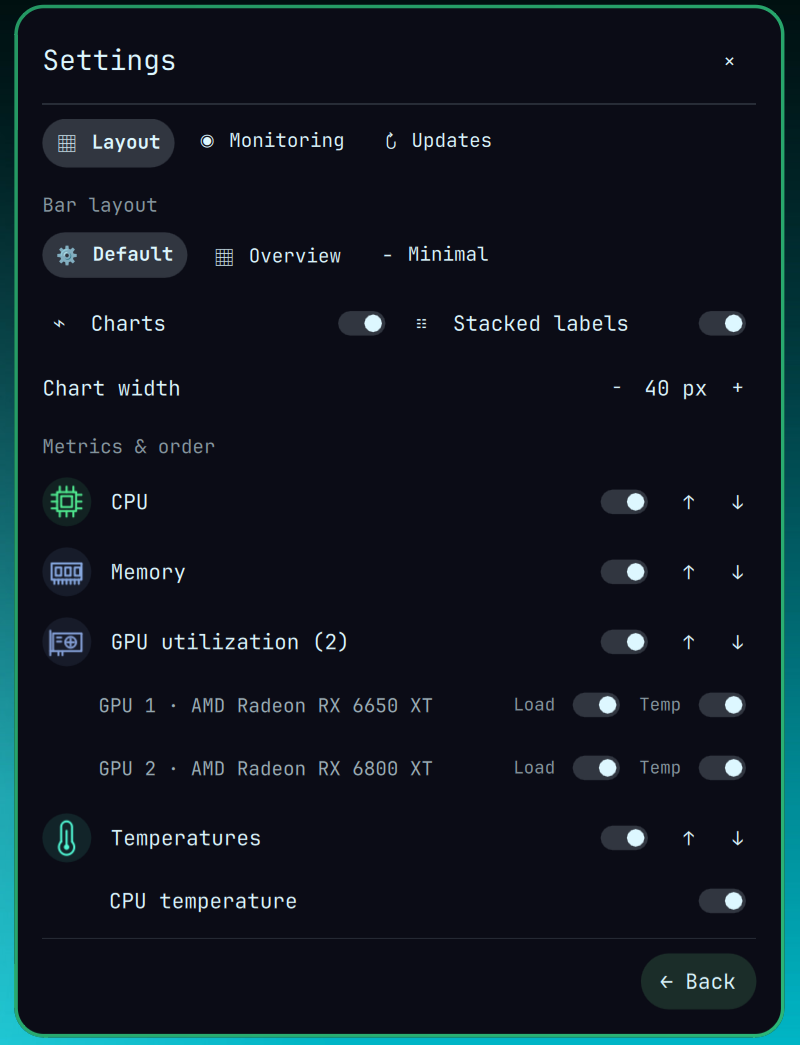
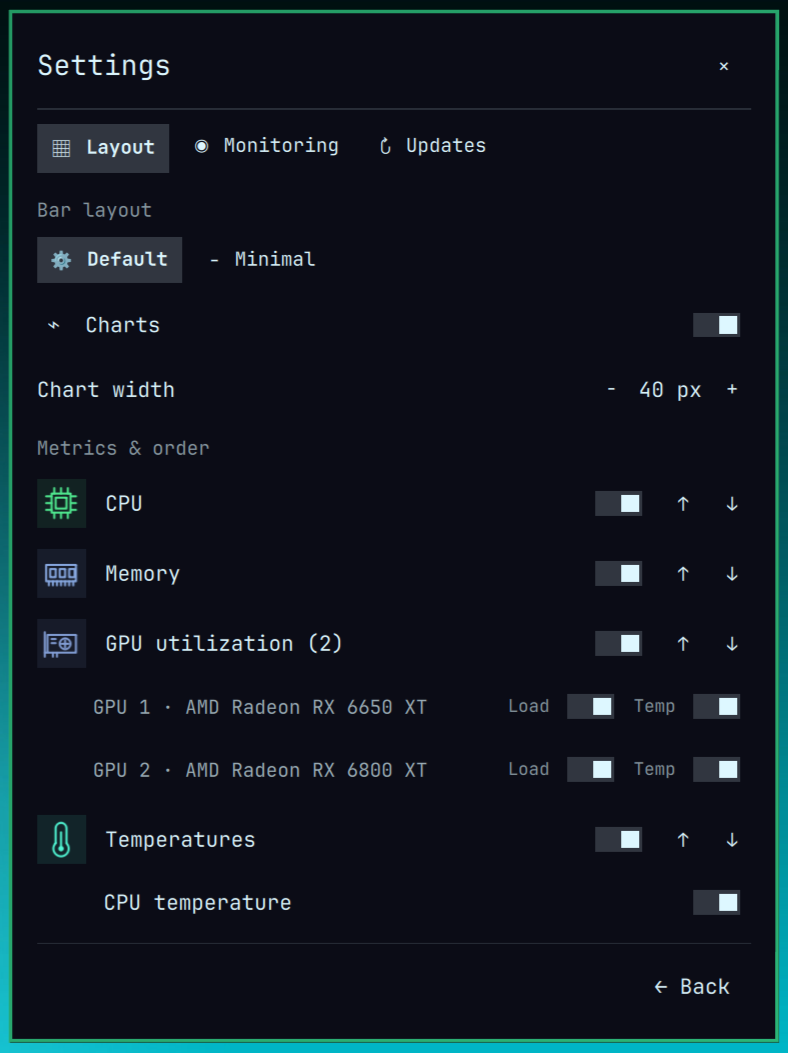
Release Omarchy Statusline v0.4.0
Refine status bar metrics and simplify Default/Minimal layouts.

Improve transparent-bar contrast and Settings updates guidance.

Refresh three dark-theme README screenshot sets and marketplace preview.

diff --git a/Widget.qml b/Widget.qml
@@ -32,16 +32,25 @@ Panel {
         return 0
     }
     function metricLabel(metric) {
-        return preferences.layout === "minimal" ? (metric.shortName || metric.name) : metric.name
+        return metric.name
     }
+    function barInkFor(ink, foreground, transparent) {
+        if (!transparent || 0.2126 * foreground.r + 0.7152 * foreground.g + 0.0722 * foreground.b > 0.5) return ink
+        return Qt.rgba(ink.r * 0.3 + foreground.r * 0.7,
+            ink.g * 0.3 + foreground.g * 0.7,
+            ink.b * 0.3 + foreground.b * 0.7, 1)
+    }
+    function barInk(ink) { return barInkFor(ink, barForeground, bar && bar.transparent) }
     function measuredWidth(count, graphs) {
         let result = Style.space(12) + Math.max(0, count - 1) * Style.space(12)
         for (let i = 0; i < count; i++) {
             const metric = metrics[metricIds[i]] || {name: "GPU", value: "—"}
             const name = metricLabel(metric)
-            const text = (preferences.stacked ? "" : name + " ") + metric.value
-            const labelWidth = Math.ceil(Math.max(bodyMetrics.advanceWidth(text), preferences.stacked ? captionMetrics.advanceWidth(name) : 0))
-            result += labelWidth + (graphs ? Style.space(5 + preferences.chartWidth) : 0)
+            const labelWidth = Math.ceil(captionMetrics.advanceWidth(name))
+            const readingWidth = Math.ceil(bodyMetrics.advanceWidth(metric.value))
+            result += labelWidth + Style.space(5) + (graphs
+                ? Math.max(readingWidth + Style.space(12), Style.space(preferences.chartWidth))
+                : readingWidth + Style.space(4))
         }
         return result
     }
@@ -54,17 +63,17 @@ Panel {
     readonly property var s: Metrics.sample
     readonly property var metrics: {
         const result = {
-            cpu: {name: "CPU", shortName: "C", value: Metrics.percent(s.cpu), ink: cpuColor, chart: "cores"},
-            disk: {name: "DISK", shortName: "D", value: Metrics.percent((s.disk || {}).percent), ink: Metrics.palette("cyan", "color6", cpuColor), chart: "meter", amount: (s.disk || {}).percent},
-            memory: {name: "MEM", shortName: "M", value: Metrics.percent(s.memory.percent), ink: memoryColor, chart: "meter", amount: s.memory.percent},
-            gpu: {name: "GPU", shortName: "G", value: "—", ink: gpuColor, chart: "sparkline", history: []},
-            cpuHeat: {name: "CPU", shortName: "CT", value: Metrics.temp(s.cpuTemperature), ink: heatColor, chart: "sparkline", history: Metrics.history.cpuTemp}
+            cpu: {name: "CPU", value: Metrics.percent(s.cpu), ink: cpuColor, chart: "cores"},
+            disk: {name: "DISK", value: Metrics.percent((s.disk || {}).percent), ink: Metrics.palette("cyan", "color6", cpuColor), chart: "meter", amount: (s.disk || {}).percent},
+            memory: {name: "MEM", value: Metrics.percent(s.memory.percent), ink: memoryColor, chart: "meter", amount: s.memory.percent},
+            gpu: {name: "GPU", value: "—", ink: gpuColor, chart: "sparkline", history: []},
+            cpuHeat: {name: "CPU", value: Metrics.temp(s.cpuTemperature), ink: heatColor, chart: "sparkline", history: Metrics.history.cpuTemp}
         }
         gpuAdapters.forEach((gpu, index) => {
             const label = gpuAdapters.length > 1 ? "GPU" + (index + 1) : "GPU"
             const history = Metrics.history.gpus[gpu.id] || {}
-            result["gpu:" + gpu.id] = {name: label, shortName: gpuAdapters.length > 1 ? "G" + (index + 1) : "G", value: Metrics.percent(gpu.percent), ink: gpuColor, chart: "sparkline", history: history.load || []}
-            result["gpuHeat:" + gpu.id] = {name: label, shortName: gpuAdapters.length > 1 ? "T" + (index + 1) : "GT", value: Metrics.temp(gpu.temperature), ink: heatColor, chart: "sparkline", history: history.temperature || []}
+            result["gpu:" + gpu.id] = {name: label, value: Metrics.percent(gpu.percent), ink: gpuColor, chart: "sparkline", history: history.load || []}
+            result["gpuHeat:" + gpu.id] = {name: label, value: Metrics.temp(gpu.temperature), ink: heatColor, chart: "sparkline", history: history.temperature || []}
         })
         return result
     }
@@ -94,29 +103,50 @@ Panel {
         Row {
             id: line
             anchors.centerIn: parent
-            anchors.verticalCenterOffset: -Style.space(3)
             spacing: Style.space(12)
             visible: !root.vertical && Metrics.sessionEnabled && root.fittedCount > 0
             opacity: Metrics.stale ? 0.4 : 1
             Repeater {
                 model: root.metricIds.slice(0, root.fittedCount)
                 Row {
+                    id: metricRow
                     required property string modelData
                     readonly property var metric: root.metrics[modelData] || ({name: "GPU", value: "—", ink: root.gpuColor, chart: "", history: []})
+                    readonly property color displayInk: root.barInk(metric.ink)
                     spacing: Style.space(5)
-                    Column {
+                    PulseText {
                         anchors.verticalCenter: parent.verticalCenter
-                        PulseText { text: root.metricLabel(metric); color: root.barForeground; opacity: 0.65; font.pixelSize: Style.font.caption; visible: root.preferences.stacked }
-                        PulseText { text: (!root.preferences.stacked ? root.metricLabel(metric) + " " : "") + metric.value; color: metric.ink }
+                        objectName: "pulseMetricLabel-" + modelData
+                        text: root.metricLabel(metric)
+                        color: root.barForeground
+                        opacity: 0.65
+                        font.pixelSize: Style.font.caption
                     }
                     Item {
-                        width: Style.space(root.preferences.chartWidth)
-                        height: Style.space(root.preferences.stacked ? 22 : 14)
                         anchors.verticalCenter: parent.verticalCenter
-                        visible: root.fittedGraphs
-                        CoreBars { anchors.fill: parent; visible: metric.chart === "cores"; values: root.s.cores; ink: root.cpuColor; spacing: 1 }
-                        Meter { anchors.verticalCenter: parent.verticalCenter; width: parent.width; height: Style.space(6); visible: metric.chart === "meter"; value: metric.amount; ink: metric.ink }
-                        Sparkline { anchors.fill: parent; visible: metric.chart === "sparkline"; values: metric.history || []; ink: metric.ink }
+                        objectName: "pulseMetricChart-" + modelData
+                        width: root.fittedGraphs ? Math.max(Style.space(root.preferences.chartWidth), value.implicitWidth + Style.space(12)) : value.implicitWidth + Style.space(4)
+                        height: Style.space(23)
+                        Item {
+                            objectName: "pulseMetricGraph-" + modelData
+                            anchors.left: parent.left
+                            anchors.right: parent.right
+                            anchors.bottom: parent.bottom
+                            height: Style.space(9)
+                            visible: root.fittedGraphs
+                            opacity: root.bar && root.bar.transparent ? 0.8 : 0.55
+                            CoreBars { anchors.fill: parent; visible: metric.chart === "cores"; values: root.s.cores; ink: metricRow.displayInk; spacing: 1 }
+                            Meter { anchors.verticalCenter: parent.verticalCenter; width: parent.width; height: Style.space(5); visible: metric.chart === "meter"; value: metric.amount; ink: metricRow.displayInk }
+                            Sparkline { anchors.fill: parent; visible: metric.chart === "sparkline"; values: metric.history || []; ink: metricRow.displayInk }
+                        }
+                        PulseText {
+                            id: value
+                            anchors.top: parent.top
+                            anchors.horizontalCenter: parent.horizontalCenter
+                            objectName: "pulseMetricValue-" + modelData
+                            text: metric.value
+                            color: metricRow.displayInk
+                        }
                     }
                 }
             }

diff --git a/tests/qml/shell.qml b/tests/qml/shell.qml
@@ -99,8 +99,15 @@ ShellRoot {
                 app.check(app.visibleTexts(detail).includes("Temp 41°C"), "CPU temperature appears in CPU detail row")
                 app.check(!app.visibleTexts(detail).includes("Temperatures"), "detail has no separate temperature section")
                 app.check(LayoutModel.normalize({metrics: ['invalid', 'cpu', 'cpu']}).metrics.join() === 'cpu', "layout validates metric IDs")
-                app.check(LayoutModel.normalize({}).layout === 'default' && LayoutModel.normalize({layout: 'custom'}).layout === 'default' && LayoutModel.normalize({layout: 'compact'}).layout === 'default', "default layout accepts legacy presets")
+                app.check(LayoutModel.normalize({}).layout === 'default' && LayoutModel.normalize({layout: 'overview'}).layout === 'default' && LayoutModel.normalize({layout: 'custom'}).layout === 'default' && LayoutModel.normalize({layout: 'compact'}).layout === 'default', "default layout accepts legacy presets")
                 app.check(!LayoutModel.normalize({layout:'minimal'}).graphs, "minimal hides charts")
+                first.item.settings = {layout: 'minimal'}
+                app.check(first.item.metricLabel(first.item.metrics.cpu) === 'CPU' && first.item.metricLabel(first.item.metrics.memory) === 'MEM' && first.item.metricLabel(first.item.metrics['gpu:card0']) === 'GPU1' && first.item.metricLabel(first.item.metrics['gpuHeat:card1']) === 'GPU2', "minimal keeps full metric labels")
+                first.item.settings = {layout: 'default'}
+                const sampleInk = Qt.rgba(0.5, 0.8, 0.9, 1)
+                const inkOnLight = first.item.barInkFor(sampleInk, Qt.rgba(0.1, 0.1, 0.1, 1), true)
+                const inkOnDark = first.item.barInkFor(sampleInk, Qt.rgba(0.9, 0.9, 0.9, 1), true)
+                app.check(inkOnLight.r < sampleInk.r && inkOnLight.g < sampleInk.g && Math.abs(inkOnDark.r - sampleInk.r) < 0.01, "transparent bar preserves theme colors on dark backgrounds and darkens them on light backgrounds")
                 app.check(first.item.metricIds.join() === 'cpu,memory,gpu:card0,gpu:card1,cpuHeat,gpuHeat:card0,gpuHeat:card1', "bar expands both GPUs and temperatures")
                 app.check(first.item.metrics['gpu:card0'].name === 'GPU1' && first.item.metrics['gpu:card1'].name === 'GPU2', "bar labels both GPUs")
                 app.check(first.item.fittedCount === 7, "wide monitor keeps all GPU readouts: " + first.item.fittedCount + "/" + first.item.availableWidth + "/" + first.item.fullWidth)
@@ -134,8 +141,10 @@ ShellRoot {
                 Pulse.Metrics.sample = app.multiGpuSample
                 page.category = "updates"
                 app.check(page.installedVersion.length > 0, "settings reads installed version without updater process")
+                const updateCommand = app.find(page, "pulseUpdateCommand")
                 const updateGuide = app.find(page, "pulseUpdateInstructions")
-                app.check(updateGuide && updateGuide.visible && updateGuide.text.indexOf("omarchy plugin update lucas.system-pulse") >= 0, "updates page directs users to host plugin manager")
+                app.check(updateCommand && updateCommand.visible && updateCommand.text === "omarchy plugin update lucas.system-pulse", "updates page directs git installations to host plugin manager")
+                app.check(updateGuide && updateGuide.visible && updateGuide.text.indexOf("source checkout") >= 0, "updates page distinguishes local development installs")
                 page.category = "layout"
                 page.change("layout", "minimal")
                 app.check(detail.settings.layout === 'minimal', "settings emits persistable values")
@@ -147,10 +156,25 @@ ShellRoot {
                 app.check(detail.settings.metrics[1] === 'gpu', "metric order saves")
                 app.check(Pulse.Metrics.consumers === 2, "two monitors share collector")
                 app.check(first.item.fittedCount === 7, "widening restores all GPU readouts: " + first.item.fittedCount + "/" + first.item.availableWidth + "/" + first.item.fullWidth)
-                first.item.settings = {layout: "default"}
+                first.item.settings = {layout: "default", stackedLabels: true}
+                app.check(app.visibleTexts(first.item).includes("CPU") && app.visibleTexts(first.item).includes("20%") && app.visibleTexts(first.item).includes("GPU1") && app.visibleTexts(first.item).includes("12%"), "legacy stacked setting keeps separate labels and values")
+                const cpuLabel = app.find(first.item, "pulseMetricLabel-cpu")
+                const cpuValue = app.find(first.item, "pulseMetricValue-cpu")
+                const cpuChart = app.find(first.item, "pulseMetricChart-cpu")
+                const cpuGraph = app.find(first.item, "pulseMetricGraph-cpu")
+                app.check(cpuLabel && cpuValue && cpuChart && cpuGraph && first.item.fittedGraphs
+                    && cpuLabel.mapToItem(first.item, 0, 0).x < cpuValue.mapToItem(first.item, 0, 0).x
+                    && cpuValue.parent === cpuChart
+                    && cpuValue.y >= 0 && cpuValue.y + cpuValue.height <= cpuChart.height
+                    && cpuGraph.y < cpuValue.y + cpuValue.height,
+                    "bar metric has label left and value over chart")
+                app.check(!app.visibleTexts(page).some(text => text.indexOf("Stacked labels") >= 0), "settings no longer offers stacked labels")
+                app.check(app.find(page, "pulseBarLayout-default") && app.find(page, "pulseBarLayout-minimal") && !app.find(page, "pulseBarLayout-overview"), "bar layout offers only default and minimal")
                 app.check(first.item.metricLabel(first.item.metrics.cpu) === "CPU", "default keeps full metric names")
+                first.item.settings = {layout: "overview", stackedLabels: true}
+                app.check(first.item.preferences.layout === "default" && app.visibleTexts(first.item).includes("CPU") && app.visibleTexts(first.item).includes("20%"), "legacy overview loads as default")
                 first.item.settings = {layout: "minimal"}
-                app.check(first.item.metricLabel(first.item.metrics.cpu) === "C" && first.item.metricLabel(first.item.metrics['gpu:card1']) === "G2" && !first.item.fittedGraphs, "minimal has short labels and no charts")
+                app.check(first.item.metricLabel(first.item.metrics.cpu) === "CPU" && first.item.metricLabel(first.item.metrics['gpu:card1']) === "GPU2" && !first.item.fittedGraphs, "minimal has full labels and no charts")
                 first.item.settings = {layout: "default"}
                 app.check(first.item.settings.layout === "default", "automatic fitting preserves preferences")
                 first.active = false

diff --git a/SettingsPage.qml b/SettingsPage.qml
@@ -47,6 +47,28 @@ ColumnLayout {
     }
     component Title: PulseText { font.pixelSize: Style.font.bodySmall; opacity: 0.6; Layout.fillWidth: true; Layout.topMargin: Style.space(6) }
     component Hint: PulseText { Layout.fillWidth: true; wrapMode: Text.Wrap; opacity: 0.7; font.pixelSize: Style.font.bodySmall }
+    component UpdateCard: Rectangle {
+        id: card
+        property string heading: ""
+        property string description: ""
+        property string command: ""
+        property color tone: Color.accent
+        Layout.fillWidth: true
+        implicitHeight: cardBody.implicitHeight + Style.space(20)
+        radius: Style.cornerRadius
+        color: Qt.alpha(tone, 0.08)
+        border.width: 1
+        border.color: Qt.alpha(tone, 0.3)
+        ColumnLayout {
+            id: cardBody
+            anchors.fill: parent
+            anchors.margins: Style.space(10)
+            spacing: Style.space(5)
+            PulseText { text: card.heading; color: card.tone; font.bold: true; Layout.fillWidth: true }
+            PulseText { objectName: card.command ? "pulseUpdateCommand" : ""; visible: !!card.command; text: card.command; color: Color.popups.text; font.pixelSize: Style.font.bodySmall; Layout.fillWidth: true; wrapMode: Text.WrapAnywhere }
+            PulseText { text: card.description; color: Color.popups.text; opacity: 0.75; font.pixelSize: Style.font.bodySmall; Layout.fillWidth: true; wrapMode: Text.Wrap }
+        }
+    }
     component Button: Ui.Button {
         focusable: true
         fontSize: Style.font.bodySmall
@@ -111,6 +133,7 @@ ColumnLayout {
                 required property var modelData
                 text: modelData.label
                 iconText: modelData.icon
+                accent: ({layout: Metrics.palette("blue", "color4", Color.accent), monitoring: Metrics.palette("green", "color2", Color.accent), updates: Metrics.palette("magenta", "color5", Color.accent)})[modelData.id]
                 selected: root.category === modelData.id
                 onClicked: root.category = modelData.id
             }
@@ -125,9 +148,10 @@ ColumnLayout {
         Layout.fillWidth: true
         spacing: Style.space(7)
         Repeater {
-            model: [{id: "default", label: "Default", icon: "⚙"}, {id: "overview", label: "Overview", icon: "▦"}, {id: "minimal", label: "Minimal", icon: "−"}]
+            model: [{id: "default", label: "Default", icon: "⚙"}, {id: "minimal", label: "Minimal", icon: "−"}]
             Button {
                 required property var modelData
+                objectName: "pulseBarLayout-" + modelData.id
                 text: modelData.label
                 iconText: modelData.icon
                 selected: root.preferences.layout === modelData.id
@@ -139,7 +163,6 @@ ColumnLayout {
         visible: root.preferences.layout === "default"
         Layout.fillWidth: true
         Toggle { Layout.fillWidth: true; label: "⌁  Charts"; checked: root.preferences.graphs; onClicked: root.change("showGraphs", !checked) }
-        Toggle { Layout.fillWidth: true; label: "☷  Stacked labels"; checked: root.preferences.stacked; onClicked: root.change("stackedLabels", !checked) }
     }
     RowLayout {
         visible: root.preferences.layout === "default" && root.preferences.graphs
@@ -267,21 +290,26 @@ ColumnLayout {
     ColumnLayout {
         visible: root.category === "updates"
         Layout.fillWidth: true
-        spacing: Style.space(8)
-    Title { text: root.installedVersion ? "Version " + root.installedVersion : "Omarchy Statusline" }
-    Hint { text: "Manage updates through Omarchy’s plugin manager." }
-    Hint {
-        objectName: "pulseUpdateInstructions"
-        text: "For a normal installation, run in a terminal:\nomarchy plugin update lucas.system-pulse"
+        spacing: Style.space(10)
+    RowLayout {
+        Layout.fillWidth: true
+        PulseText { text: "Installed"; font.pixelSize: Style.font.bodySmall; opacity: 0.7 }
+        PulseText { text: root.installedVersion ? "v" + root.installedVersion : "—"; color: Metrics.palette("magenta", "color5", Color.accent); font.bold: true; Layout.fillWidth: true }
     }
-    Hint { text: "Development installations: update your source checkout manually. Reload Omarchy Shell after updating; this restarts the whole shell." }
+    UpdateCard {
+        heading: "Update from GitHub"
+        command: "omarchy plugin update lucas.system-pulse"
+        description: "Run in a terminal. Omarchy uses the GitHub remote saved at installation."
+        tone: Metrics.palette("blue", "color4", Color.accent)
+    }
+    Hint { objectName: "pulseUpdateInstructions"; text: "Local development install? Update its source checkout instead." }
     Flow {
         Layout.fillWidth: true; spacing: Style.space(7)
         Button {
-            iconText: "↗"; text: "Plugin marketplace"
-            onClicked: Qt.openUrlExternally("https://plugins.omarchy.org/")
+            iconText: "↗"; text: "Omarchy plugin guide"
+            accent: Metrics.palette("blue", "color4", Color.accent)
+            onClicked: Qt.openUrlExternally("https://omarchy.org/manual/shell-plugins/")
         }
-        Button { iconText: "↻"; text: "Reload shell"; tooltipText: "Restart Omarchy Shell to apply updates"; onClicked: Quickshell.execDetached(["omarchy", "restart", "shell"]) }
     }
     }
 }

diff --git a/Layout.js b/Layout.js
@@ -8,15 +8,12 @@ function gpuEnabled(options, key, id) {
     return !options[key] || options[key][id] !== false
 }
 function normalize(options) {
-    const layout = options.layout === "custom" || options.layout === "compact" ? "default"
-        : ["overview", "minimal", "default"].indexOf(options.layout) >= 0
-        ? options.layout : "default"
+    const layout = options.layout === "minimal" ? "minimal" : "default"
     const order = Array.isArray(options.metrics) ? options.metrics : ["cpu", "memory", "gpu", "heat"]
     const metrics = order.filter((id, i) => metricIds.indexOf(id) >= 0 && order.indexOf(id) === i)
     return {layout: layout, metrics: metrics.length ? metrics : ["cpu"],
-        graphs: layout === "default" ? options.showGraphs !== false : layout !== "minimal",
-        stacked: layout === "overview" || (layout === "default" && options.stackedLabels === true),
-        chartWidth: layout === "default" ? Math.max(20, Math.min(80, Number(options.chartWidth) || 40)) : layout === "overview" ? 48 : 28}
+        graphs: layout === "default" && options.showGraphs !== false,
+        chartWidth: Math.max(20, Math.min(80, Number(options.chartWidth) || 40))}
 }
 
 // The shell currently positions its three sections independently. Measure the

diff --git a/README.md b/README.md
@@ -8,11 +8,11 @@ The default widget shows CPU load with per-core bars, memory usage with a meter,
 
 ## Screenshots
 
-These screenshots are examples of the same widget layout under two Omarchy themes.
+These screenshots show the same widget layout under three dark Omarchy themes.
 
 ### Example: Hackerman
 
-![Omarchy status bar showing CPU, memory, GPU1 and GPU2 utilization, separate CPU and GPU temperatures, and disk usage](docs/images/themes/hackerman/status-bar.png)
+![Omarchy status bar showing CPU, memory, GPU1 and GPU2 utilization, and separate CPU and GPU temperatures](docs/images/themes/hackerman/status-bar.png)
 
 | System monitor | Settings |
 | --- | --- |
@@ -26,7 +26,15 @@ These screenshots are examples of the same widget layout under two Omarchy theme
 | --- | --- |
 | ![Ristretto system panel showing separate readings for two GPUs](docs/images/themes/ristretto/system-panel.png) | ![Ristretto settings listing both GPUs with separate switches](docs/images/themes/ristretto/settings.png) |
 
-Omarchy Statusline follows whichever Omarchy theme is active; Hackerman and Ristretto are examples, not the only supported themes. No plugin theme setting is needed.
+### Example: Tokyo Night
+
+![Omarchy status bar in the Tokyo Night theme showing both GPUs and their temperatures](docs/images/themes/tokyo-night/status-bar.png)
+
+| System monitor | Settings |
+| --- | --- |
+| ![Tokyo Night system panel showing separate readings for two GPUs](docs/images/themes/tokyo-night/system-panel.png) | ![Tokyo Night settings listing both GPUs with separate switches](docs/images/themes/tokyo-night/settings.png) |
+
+Omarchy Statusline follows whichever Omarchy theme is active; these three themes are examples, not the only supported themes. No plugin theme setting is needed.
 
 ## Quick install
 
@@ -82,10 +90,10 @@ Click the widget to open the detail panel, then choose **Settings**. Right-click
 
 The settings page has three tabs, with detail panel options inside Layout:
 
-- **Layout**: Default (the initial setup, with adjustable charts and labels), Overview (stacked labels and charts), or Minimal (short labels and no charts). Select and reorder CPU/memory/GPU/temperature/disk groups, then control each detected GPU's utilization and temperature readouts separately. In Default, you can show or hide charts, choose stacked labels, and adjust chart width from 20–80 logical pixels. At least one metric group stays enabled. Existing `custom` and `compact` bar settings load as Default.
+- **Layout**: Default (the initial setup, with adjustable charts) or Minimal (full metric labels and no charts). Each bar metric has its label on the left and its value overlaid on the chart on the right. Select and reorder CPU/memory/GPU/temperature/disk groups, then control each detected GPU's utilization and temperature readouts separately. In Default, you can show or hide charts and adjust chart width from 20–80 logical pixels. At least one metric group stays enabled. Existing `overview`, `custom`, and `compact` bar settings load as Default; saved `stackedLabels` values are ignored.
 - **Detail panel (Layout)**: System and Settings share a 440 × 558 logical-pixel content frame, constrained by available screen space. Overview shows history below each metric; Compact uses smaller rows without those history strips. Temperature history follows the history visibility setting.
 - **Monitoring**: choose 1, 2, or 5 second sampling; configure startup; pause/resume; exit this session; or disable the plugin entirely.
-- **Updates**: inspect the installed version, find Omarchy’s plugin update command, open the marketplace, and reload Omarchy Shell afterward.
+- **Updates**: see the installed version, the Git-managed update command, and the official plugin guide. Local development installs update through their source checkout.
 
 Bar width adapts independently to the space available on each monitor, reserving room for the clock and neighboring widgets. On narrow screens it hides charts first, then shows only the metrics that fit in your chosen order; click for all details. If necessary it collapses to a small launcher. The full layout returns when space is available, without changing saved settings. The plugin fits the host bar and never creates another bar. Left/right vertical bars use the CPU/memory readout and the same settings and detail panel.
 
@@ -97,7 +105,7 @@ omarchy-shell shell summon lucas.system-pulse '{}'
 omarchy-shell shell hide lucas.system-pulse
 ```
 
-For more readable stacked labels, set `size-horizontal = 36` in the `[bar]` section of `~/.config/omarchy/shell.toml` (merge with existing settings). This machine preference survives theme switches and affects the whole bar. The installer does not change bar height automatically.
+Bar height is controlled by `size-horizontal` in the `[bar]` section of `~/.config/omarchy/shell.toml`. This machine preference affects the whole bar; the installer does not change it.
 
 ## Startup, pause and exit
 
@@ -115,9 +123,9 @@ Use Omarchy’s plugin manager for a normal Git-managed installation:
 omarchy plugin update lucas.system-pulse
 ```
 
-Follow the host command’s prompts. **Settings → Updates** displays this command and links to the plugin marketplace. The plugin itself does not check remote repositories, download updates or apply Git changes. Update behavior and confirmation are managed by the installed Omarchy version.
+Run it in a terminal and follow Omarchy’s prompts. `plugin add` takes the GitHub repository URL for a first installation; `plugin update` takes the installed plugin ID and uses its saved Git remote. **Settings → Updates** shows the update command and links to the [Omarchy plugin guide](https://omarchy.org/manual/shell-plugins/). The plugin itself does not download or apply updates.
 
-After updating, use **Reload shell** or `omarchy restart shell` to clear cached QML components; this restarts the whole shell. Development symlinks and worktrees should be updated manually through their source checkout.
+Omarchy rescans plugins after a Git-managed update, and plugin file changes normally reload automatically. If the updated interface does not appear, run `omarchy restart shell` to clear cached QML components. Development symlinks and worktrees should be updated through their source checkout.
 
 ## Themes
 

diff --git a/RELEASE_NOTES.md b/RELEASE_NOTES.md
@@ -1,16 +1,16 @@
-# Omarchy Statusline v0.3.0
+# Omarchy Statusline v0.4.0
 
-This release adds per-adapter GPU monitoring throughout the bar, settings, and detail panel.
+This release refines the status bar and settings while preserving per-adapter GPU monitoring and the existing `lucas.system-pulse` plugin ID.
 
 ## What's new
 
-- Show each detected GPU's utilization and temperature separately in the status bar, with its own history. Settings identifies adapters by name and lets you toggle each GPU's load and temperature readouts independently; preferences are saved by adapter ID.
-- Show every detected GPU in the detail panel with its own utilization, VRAM, power, fan, temperature, hotspot, and history where the hardware exposes them. CPU temperature now sits with CPU information. The separate temperature section has been removed.
-- Simplify bar presets to Default, Overview, and Minimal. Default is the initial preset; older `custom` and `compact` bar preferences continue to load as Default. Minimal uses short labels and hides charts.
-- Remove the widget's selected outline and increase the gap between bar content and Omarchy's open-panel indicator.
-- Replace the README and marketplace preview screenshots with native captures. Hackerman and Ristretto are labeled as examples; the widget follows the active Omarchy theme.
+- Put each bar metric's full label on the left and its value above the chart on the right. Center the readouts vertically in the host bar.
+- Offer Default and Minimal bar layouts. Minimal keeps full labels and hides charts. Existing Overview, Custom, and Compact preferences load as Default; saved stacked-label preferences are ignored.
+- Improve metric contrast when a transparent bar sits over a light background, while keeping theme colors on dark backgrounds.
+- Refresh Settings colors and simplify Updates to the installed version, Omarchy's plugin update command, and the official guide.
+- Replace the README screenshots with consistent captures from empty workspaces under Hackerman, Ristretto, and Tokyo Night. Refresh the marketplace preview.
 
-Unsupported sensor values continue to display `—`. AMD hardware and the native QML integration were exercised locally; NVIDIA telemetry remains covered by fixtures rather than a physical NVIDIA test.
+This update also includes the unpublished v0.3.0 changes since the current marketplace snapshot: separate utilization and temperature readings for each detected GPU in the bar, settings, and detail panel; CPU temperature in its CPU row; and removal of the standalone temperature section. Unsupported sensor values display `—`.
 
 ## Updating
 
@@ -20,13 +20,13 @@ For a normal Git-managed installation, run:
 omarchy plugin update lucas.system-pulse
 ```
 
-Follow Omarchy's prompts, then use **Reload shell** in Settings or run `omarchy restart shell` to load the new QML components. Development symlinks use their local source checkout instead. The Marketplace's verified listing is updated separately through its exact-commit verification and publication workflow.
+Omarchy uses the saved Git remote and rescans plugins after updating. If the updated interface does not appear, run `omarchy restart shell` to clear cached QML components. Development symlinks use their source checkout instead. Marketplace verification and publication are a separate process tied to the exact upstream commit.
 
 ## Validation
 
 - `omarchy plugin validate .`
-- `python3 -m unittest discover -s tests -v` (15 tests)
-- `python3 scripts/test-qml.py` (native QML regression suite)
+- `python3 -m unittest discover -s tests -v`
+- `python3 scripts/test-qml.py`
 - `bash -n scripts/install.sh scripts/uninstall.sh`
 - `python3 -m json.tool manifest.json`
 - `git diff --check`
